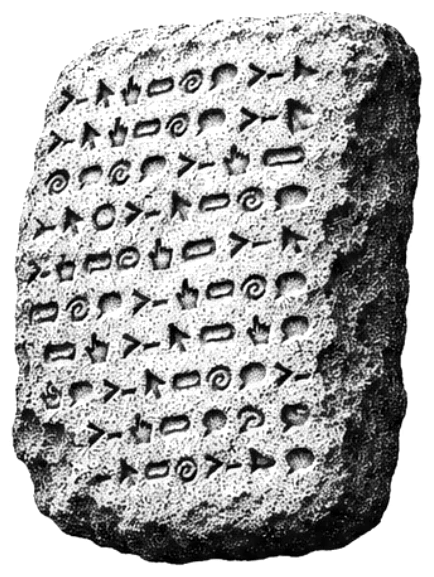
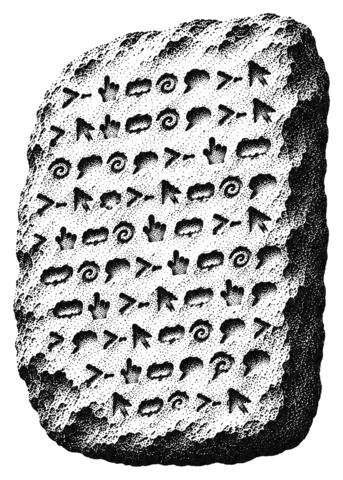
Tablet: Matthew's redrawn clay tablet replaces the script tablet
scripts/fossil-tablet.mjs defaults to fossil-tablet-script-2.webp and now
caps the mask at 480px tall, about twice the 226px it is drawn at:
assets/fossils/fossil-tablet.webp is 343 x 480, 109 KB. Earlier drawings
kept as references. Resting shots retaken, last beside new in light and
dark. Spec and backlog status.

diff --git a/docs/design-spec.md b/docs/design-spec.md
@@ -186,7 +186,7 @@ A second museum layer: one monospace list that is the whole museum, built from c
 - **Grid and type (tokens on `.ix`):** one monospace stack (`ui-monospace, Menlo, Monaco, 'Courier New'`) at one size, 13px on 20px rows. Columns in `ch`: a line is `[cursor 2ch][mark 6ch][text][leader][right side + arrow]`; a line under another starts `--ix-sub` 2ch further in; running text stops at `--ix-measure` 64ch; the list is `--ix-list` 76ch on the title and timeline, 56ch beside the cards, and `--ix-hud` 50ch in a level. Gaps are one row. Page edge 24px (16px at phone width).
 - **Ink:** black `#000` on white for what matters now; one grey, `#666` (5.7:1), for what's secondary: leaders, right-hand sides, `[ ]`, the hint, labels, "not found", rooms you're not in.
 - **Dark mode** (Matthew, 10 Nov 2026): a "Dark mode" line with `[ ]` / `[x]` (`aria-pressed`) on every view, after Collection and About on the title and timeline and after "Back to timeline" in a level and on the collection. Dark is the default (Matthew, 10 Nov 2026); choosing light is remembered per browser (`ux-archaeologist:index-theme`, `src/shared/index-museum/theme.js`) and mirrored as `data-index-theme` on `<html>`. Dark inks: `#e6e6e6` for what matters now, `#8a8a8a` (5.4:1) for the second ink, on `#111`. The room behind the artifact follows through `--ix-room` (white or `#111`) on `body` and the level page. The artifacts were designed on the Classic museum's dark room, so in dark the Level 4 ghost iPhone's outline shows again and Level 5's chat sits on a dark page.
-- **Picture options (dev server only, under comparison):** "pictures" in the dev panel (dots · stamps · fossils, shown while the Index museum is on) picks the set. Every room picture follows it (the hover preview, the discovery, the collection's cards). Dots are the default and all production shows. *Stamps:* six coloured stamp prints cut from `docs/reference/style-lab/stamp-illustrations.webp` into `assets/stamps/stamp-N.webp`: one 480 × 408 box (the 400 / 340 shape) round each picture's centre, at the reference's own scale, paper and grain kept. The Command Line's is Matthew's own black stamp (a `>_` prompt key, cracked; 10 Nov 2026; source `docs/reference/style-lab/stamp-command-line.webp`, at its own resolution in the same tile), in place of the blue `$` and cursor. Each sits on its own paper in its own colours, never inverts and has no frame; unfound rooms keep the empty dot grid. While no room is pointed at, the space beside the list on the title and timeline shows a resting stamp, an arrowhead (Matthew, 10 Nov 2026; `assets/stamps/stamp-default.webp`, cut to the same tile and scale from `docs/reference/style-lab/stamp-default-arrowhead.webp`), with no year; pointing at a room swaps in its stamp, and pointing away brings the arrowhead back. With the dots that space stays empty until a room is pointed at. *Fossils* (Matthew, 10 Nov 2026): each room's idea as an archaeological find in stipple ink (a broken stone `>` with a stick for the cursor, a flint arrowhead, a statue's pointing hand, a stone slab with a thumb-worn dip, an ammonite, a speech bubble of amber), cut from `docs/reference/style-lab/fossil-pictures.webp` by `scripts/fossil-pictures.mjs` into `assets/fossils/fossil-N.webp`: one scale, each find centred in the same 600 × 510 box (400 / 340), ink-density masks drawn in the text colour like the dots, so black on light, light on dark (the shading reads like scratchboard) and inverted on the black row. While no room is pointed at, the tablet rests beside the list on the title and timeline: the museum's main picture, a pillow-shaped clay tablet with a damaged lower edge, its face written in about 11 rows of small signs like cuneiform, a script made only of the six rooms' signs repeated (`>_`, pointer, hand, rounded rectangle, spiral, speech bubble). From a distance it reads as an ancient tablet; up close the words are interfaces (Matthew, 10 Nov 2026; source `docs/reference/style-lab/fossil-tablet-script.webp`, 490 × 624; it replaced a carved tablet in three bands, kept as `fossil-tablet.webp` in the same folder as a record). `scripts/fossil-tablet.mjs` makes it into the mask `assets/fossils/fossil-tablet.webp` (434 × 577, trimmed to the ink, its own proportions, nothing upscaled). At the size shown, the signs read as writing rather than as six separate signs, which is intended. It is fitted with `contain` in the room pictures' 400 / 340 box, so it is height-bound, centred and never cropped or stretched, and a larger file swaps in with the script alone. Pointing at a room swaps in its find, and leaving brings the tablet back, with no animation. In dark mode the face goes mid-grey, the signs light, and the shaded edge a light rim; the rows still read as rows. Like every resting picture, it isn't shown under 900px wide, where the space beside the list is hidden. A redraw is the same script on a new sheet, no code changes. Remembered per browser (`ux-archaeologist:index-pictures`, `src/shared/index-museum/pictureStyle.js`). The dev server serves stamps and fossils by path, so the production build has neither the switch nor the files. Comparisons: `docs/museum-index/pictures/`.
+- **Picture options (dev server only, under comparison):** "pictures" in the dev panel (dots · stamps · fossils, shown while the Index museum is on) picks the set. Every room picture follows it (the hover preview, the discovery, the collection's cards). Dots are the default and all production shows. *Stamps:* six coloured stamp prints cut from `docs/reference/style-lab/stamp-illustrations.webp` into `assets/stamps/stamp-N.webp`: one 480 × 408 box (the 400 / 340 shape) round each picture's centre, at the reference's own scale, paper and grain kept. The Command Line's is Matthew's own black stamp (a `>_` prompt key, cracked; 10 Nov 2026; source `docs/reference/style-lab/stamp-command-line.webp`, at its own resolution in the same tile), in place of the blue `$` and cursor. Each sits on its own paper in its own colours, never inverts and has no frame; unfound rooms keep the empty dot grid. While no room is pointed at, the space beside the list on the title and timeline shows a resting stamp, an arrowhead (Matthew, 10 Nov 2026; `assets/stamps/stamp-default.webp`, cut to the same tile and scale from `docs/reference/style-lab/stamp-default-arrowhead.webp`), with no year; pointing at a room swaps in its stamp, and pointing away brings the arrowhead back. With the dots that space stays empty until a room is pointed at. *Fossils* (Matthew, 10 Nov 2026): each room's idea as an archaeological find in stipple ink (a broken stone `>` with a stick for the cursor, a flint arrowhead, a statue's pointing hand, a stone slab with a thumb-worn dip, an ammonite, a speech bubble of amber), cut from `docs/reference/style-lab/fossil-pictures.webp` by `scripts/fossil-pictures.mjs` into `assets/fossils/fossil-N.webp`: one scale, each find centred in the same 600 × 510 box (400 / 340), ink-density masks drawn in the text colour like the dots, so black on light, light on dark (the shading reads like scratchboard) and inverted on the black row. While no room is pointed at, the tablet rests beside the list on the title and timeline: the museum's main picture, a pillow-shaped clay tablet with a damaged lower edge, its face written in about 10 rows of small impressed signs like cuneiform, a script made only of the six rooms' signs repeated (`>_`, pointer, hand, rounded rectangle, spiral, speech bubble). From a distance it reads as an ancient tablet; up close the words are interfaces (Matthew, 11 Nov 2026; source `docs/reference/style-lab/fossil-tablet-script-2.webp`, 1100 × 1430, coarser stipple and deeper signs; the earlier clay tablet `fossil-tablet-script.webp` and the carved tablet in three bands `fossil-tablet.webp` stay in the same folder as a record). `scripts/fossil-tablet.mjs` makes it into the mask `assets/fossils/fossil-tablet.webp`: trimmed to the ink, its own proportions, never upscaled, and scaled down to at most 480px tall, about twice the 226px it is drawn at (343 × 480, 109 KB). At the size shown, the signs read as writing rather than as six separate signs, which is intended. It is fitted with `contain` in the room pictures' 400 / 340 box, so it is height-bound, centred and never cropped or stretched, and a larger file swaps in with the script alone. Pointing at a room swaps in its find, and leaving brings the tablet back, with no animation. In dark mode the face goes mid-grey, the signs light, and the dark side a bright rim on the right; the rows still read as rows. Like every resting picture, it isn't shown under 900px wide, where the space beside the list is hidden. A redraw is the same script on a new sheet, no code changes. Remembered per browser (`ux-archaeologist:index-pictures`, `src/shared/index-museum/pictureStyle.js`). The dev server serves stamps and fossils by path, so the production build has neither the switch nor the files. Comparisons: `docs/museum-index/pictures/`.
 - **Line states:**
   - *Rest:* black text, grey right side.
   - *Can be chosen:* a dotted grey leader to the right side and an arrow: `→` goes somewhere, `↗` leaves the site, `+` / `−` opens / closes in place. Leaders mean only this. Exception: in a level, the rooms you're not in are bare grey lines (still clickable) so the list stays quiet.

diff --git a/docs/backlog.md b/docs/backlog.md
@@ -328,6 +328,7 @@ It is the picture that stands for the whole experience, shown when no room is in
   - It's large enough not to be soft. Keep the mask no larger than about twice the size it's shown, so the file stays small.
   - Keep the previous drawing in `docs/reference/` as a record.
   - Check the rows in light and dark, retake the screenshots that show the resting picture, and show Matthew the new tablet beside the last one.
+- **Status of the second change (11 Nov 2026):** built and shown to Matthew. `scripts/fossil-tablet.mjs` defaults to `fossil-tablet-script-2.webp`, trims the margins to the ink (763 × 1067 of 1100 × 1430) and now scales a drawing down to at most 480px tall (`MAX_H`). The picture box draws the tablet 226px tall (34ch at 13px, the 400 / 340 shape), so that is about twice the size shown. The mask is 343 × 480, 109 KB (the last one was 179 KB at 434 × 577). The previous drawings stay in `docs/reference/style-lab/`. The rows read as rows in light and dark, the signs bolder than before. In dark the darker side shows as a bright rim on the right. Last beside new, light above dark: `docs/museum-index/pictures/tablet-last-new-light-dark.webp`; light beside dark and the title and timeline fossil shots at 1440 and 375 retaken. Checked: 175 tests, `npm run build` (no tablet file or path).
 
 ### Card lab: stamp cards in a grid · approved 10 Nov 2026
 Matthew wants a card design in the card lab (`/card-lab`) based on a ChatGPT mockup, saved as `docs/reference/style-lab/stamp-cards.webp`. Each card is a sheet of the room's colour, with its picture printed in black at the top and the text set below. Use the stamp pictures already in `assets/stamps/` (from the entry above), not the mockup's drawings, and lay the cards out in a straight grid with no rotation.
